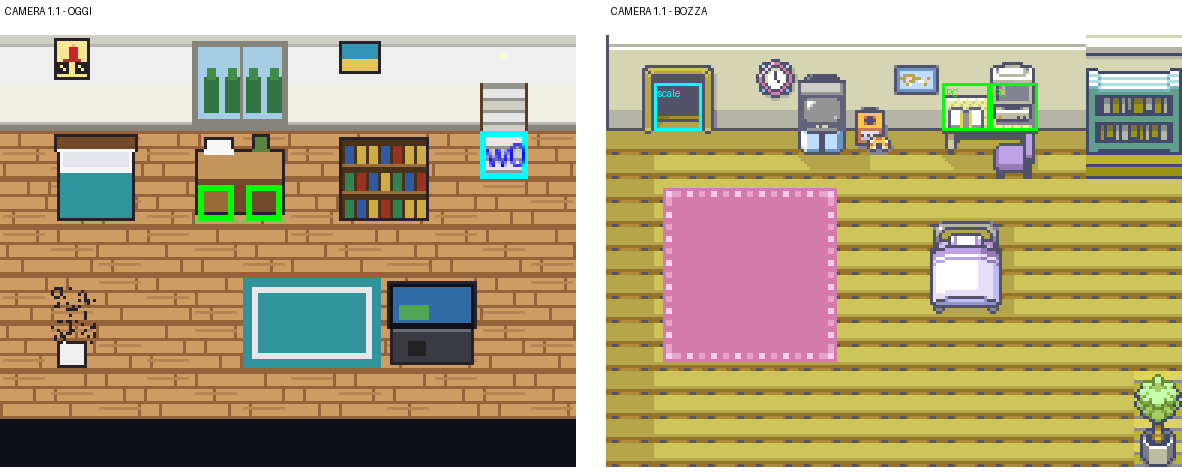
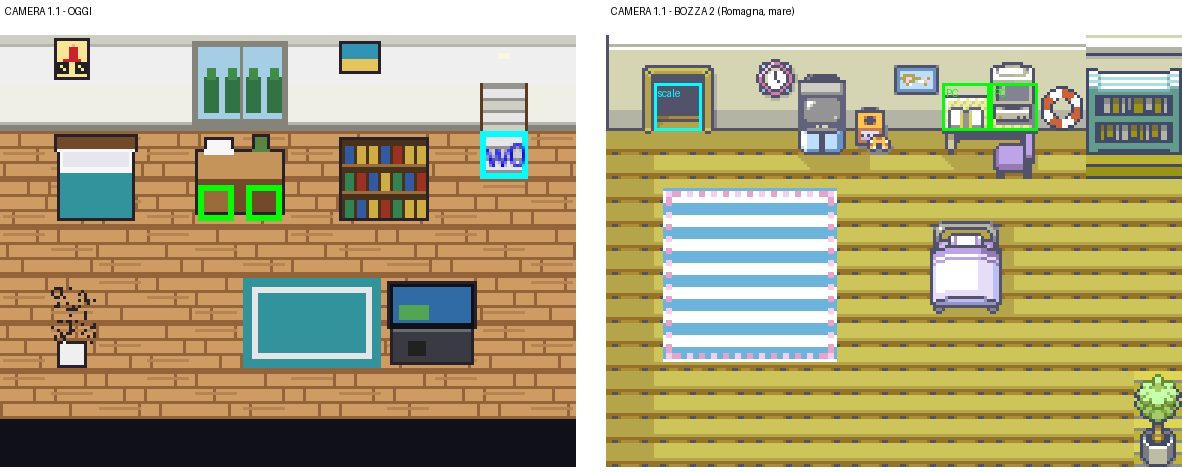
Bozza 2 della casa del protagonista: finestre sul mare, tovaglia romagnola a ruggine, salvagente, telo da mare (pezzi disegnati nello strato alto con le palette del primario)
Claude-Session: https://claude.ai/code/session_019NeVR98VfDxiGzodkXqoY7

Changed region(s): [[0.5482, 0.3856, 0.731, 0.7712], [0.8832, 0.178, 0.9137, 0.2669], [0.6091, 0.0, 0.6701, 0.0297]]

diff --git a/bozze/casa_protagonista.py b/bozze/casa_protagonista.py
@@ -1,6 +1,8 @@
 """Bozza Lotto 4: interno della casa del protagonista (1.0 pianterreno, 1.1 camera), stesse misure di oggi
 (14x10 e 12x9: i vecchi salvataggi fatti in casa restano dentro la mappa).
 
+Romagna e mare (pezzi disegnati a mano nello strato alto, palette del primario): finestre con la vista sul mare,
+tovaglia romagnola stampata a ruggine, salvagente al muro della camera, telo da mare a righe al posto del tappeto.
 Pezzi: la casa del protagonista di Smeraldo (layout di 1.2 e 1.3, che nessuna mappa usa piu'), primario degli
 interni 0x55ea40 e il suo secondario 0x55ecb0. Le scale passano a sinistra, come in Smeraldo, in tutti e due i piani.
 Uso: python3 bozze/casa_protagonista.py ROM_069 CARTELLA
@@ -50,8 +52,161 @@ def camera(d):
     return T
 
 
+# ------------------------------------------------------------------ pezzi disegnati a mano (Romagna, mare)
+# Si disegnano nello strato alto dei metatile, con le palette del primario degli interni (sempre caricate,
+# non occupano posti del secondario): palette 5 = cielo, mare, sabbia; palette 1 = ruggine, bianco, salmone.
+import numpy as np
+P_MARE, P_RUGGINE = 5, 1
+
+
+def _pal(d, ts, k):
+    pp = struct.unpack_from('<I', d, ts + 8)[0] - 0x8000000
+    v = struct.unpack_from('<16H', d, pp + 32 * k)
+    return np.array([[(c & 31) * 8, ((c >> 5) & 31) * 8, ((c >> 10) & 31) * 8] for c in v])
+
+
+def _tile_px(src_raw, idx):
+    raw = src_raw[(idx - 512) * 32:(idx - 512) * 32 + 32]
+    a = np.frombuffer(bytes(raw), np.uint8); px = np.empty(64, np.uint8); px[::2] = a & 15; px[1::2] = a >> 4
+    return px.reshape(8, 8)
+
+
+def strato_basso_rgb(U, mt):
+    """16x16 RGB dello strato basso del metatile mt del secondario SEC."""
+    f = U.fonte(SEC); refs = f.refs(mt); out = np.zeros((16, 16, 3), int)
+    for q in range(4):
+        r = refs[q]; t = _tile_px(f.raw, r & 1023)
+        if r & 0x400: t = t[:, ::-1]
+        if r & 0x800: t = t[::-1, :]
+        out[(q // 2) * 8:(q // 2) * 8 + 8, (q % 2) * 8:(q % 2) * 8 + 8] = _pal(U.d, SEC, r >> 12)[t]
+    return out
+
+
+def _raw(t8):
+    t = np.asarray(t8, np.uint8).reshape(64)
+    return bytes(int(t[i]) | (int(t[i + 1]) << 4) for i in range(0, 64, 2))
+
+
+def con_sopra(U, mt, alto16, pal):
+    """Il metatile mt (strato basso com'e') con lo strato alto nuovo: alto16 = 16x16 indici della palette pal
+    (0 = trasparente)."""
+    base = U.metatile(SEC, mt); refs = list(U.meta[base - 512][0]) if base >= 512 else list(U.prim.refs(base))
+    alto = np.asarray(alto16)
+    for q in range(4):
+        t = alto[(q // 2) * 8:(q // 2) * 8 + 8, (q % 2) * 8:(q % 2) * 8 + 8]
+        refs[4 + q] = (U._tile(_raw(t)) | (pal << 12)) if t.any() else 0
+    return U.metatile_nuovo(refs, U.fonte(SEC).attr(mt))
+
+
+def vetro(rgb):
+    r, g, b = rgb[..., 0], rgb[..., 1], rgb[..., 2]
+    return (b > r + 30) & (b > 120)
+
+
+def vista_mare(U, mt, riga0, vela=False):
+    """Finestra (strato basso mt) con il mare dietro il vetro. riga0: riga del vetro da cui parte il metatile
+    (0 per la parte alta della finestra, 16 per la bassa): l'orizzonte e' a meta' della finestra."""
+    rgb = strato_basso_rgb(U, mt); m = vetro(rgb); alto = np.zeros((16, 16), int)
+    ys = [y + riga0 for y in range(16) if m[y].any()]
+    for y in range(16):
+        for x in range(16):
+            if not m[y, x]: continue
+            Y = y + riga0
+            if Y < 12: c = 9                                     # cielo
+            elif Y < 15: c = 3                                   # foschia
+            elif Y == 15: c = 4                                  # orizzonte
+            else: c = 1 if ((x + Y) % 7 == 0 and Y > 17) else 10  # mare con le onde
+            alto[y, x] = c
+    if vela:                                                     # una vela bianca sull'orizzonte
+        for y, x0, x1 in [(12 - riga0, 7, 8), (13 - riga0, 6, 8), (14 - riga0, 5, 8)]:
+            if 0 <= y < 16:
+                for x in range(x0, x1 + 1):
+                    if m[y, x]: alto[y, x] = 1
+    return con_sopra(U, mt, alto, P_MARE)
+
+
+def tovaglia(U, mt):
+    """Il tavolo (strato alto, palette 9 del secondario) con la tovaglia romagnola stampata a ruggine."""
+    f = U.fonte(SEC); refs = list(f.refs(mt)); pal9 = _pal(U.d, SEC, 9)
+    base = U.metatile(SEC, mt); nuovi = list(U.meta[base - 512][0])
+    for q in range(4):
+        r = refs[4 + q]; t = _tile_px(f.raw, r & 1023)
+        rgb = pal9[t]; lum = rgb.sum(-1); out = np.zeros((8, 8), int)
+        X0, Y0 = (q % 2) * 8, (q // 2) * 8
+        for y in range(8):
+            for x in range(8):
+                if t[y, x] == 0: continue
+                X = X0 + (7 - x if r & 0x400 else x); Y = Y0 + y
+                if lum[y, x] > 560:                              # piano chiaro del tavolo -> tela con il motivo
+                    out[y, x] = 9 if ((X + Y) % 6 == 0 or (X - Y) % 6 == 0) and 2 < Y < 13 else 4
+                elif lum[y, x] > 380: out[y, x] = 10             # bordo -> ruggine chiaro
+                else: out[y, x] = 1                              # contorni e gambe
+        nuovi[4 + q] = (U._tile(_raw(out)) | (P_RUGGINE << 12) | (r & 0x0c00))
+    return U.metatile_nuovo(nuovi, f.attr(mt))
+
+
+def salvagente(U, mt):
+    """Salvagente bianco e rosso appeso al muro (strato alto, palette 1)."""
+    alto = np.zeros((16, 16), int); c = 7.5
+    for y in range(16):
+        for x in range(16):
+            r = ((x - c) ** 2 + (y - c - 0.5) ** 2) ** 0.5
+            if 3.2 <= r <= 7.2:
+                if r > 6.4 or r < 3.9: alto[y, x] = 1
+                else:
+                    ang = np.degrees(np.arctan2(y - c - 0.5, x - c)) % 360
+                    alto[y, x] = 10 if int(ang // 45) % 2 == 0 else 4
+    return con_sopra(U, mt, alto, P_RUGGINE)
+
+
+def telo(U, mt, riga0):
+    """Il tappeto rosa diventa un telo da mare a righe bianche e blu (solo sul rosa pieno)."""
+    rgb = strato_basso_rgb(U, mt); rosa = (rgb[..., 0] > 150) & (rgb[..., 1] < 150) & (rgb[..., 2] > 100)
+    alto = np.zeros((16, 16), int)
+    for y in range(16):
+        for x in range(16):
+            if rosa[y, x]: alto[y, x] = 10 if ((y + riga0) // 4) % 2 == 0 else 1
+    return con_sopra(U, mt, alto, P_MARE)
+
+
+class UnioneRomagna(tela.Unione):
+    """Unione che capisce anche le caselle ('N', nome, argomenti) dei pezzi disegnati a mano."""
+    def __init__(self, d):
+        super().__init__(d, PRIM); self.nuovi = {}
+
+    def metatile(self, tp, mt):
+        if isinstance(tp, tuple):
+            if tp not in self.nuovi: self.nuovi[tp] = tp[1](self, *tp[2:])
+            return self.nuovi[tp]
+        return super().metatile(tp, mt)
+
+
+def metti_nuovo(T, x, y, fn, *args):
+    vecchio = T.c[y][x][1]
+    T.c[y][x] = (('N', fn) + args, vecchio & 0xfc00)
+
+
+def romagna_pianterreno(T):
+    metti_nuovo(T, 12, 0, vista_mare, 0x21e, 0, False)
+    for x in (5, 6, 9, 10):                                     # finestre con vista sul mare
+        metti_nuovo(T, x, 0, vista_mare, 0x21e, 0, x == 6)
+        metti_nuovo(T, x, 1, vista_mare, 0x226, 16, x == 6)
+    for (x, y), mt in {(3, 6): 0x2b9, (4, 6): 0x2ba, (3, 7): 0x2c1, (4, 7): 0x2c2}.items():
+        metti_nuovo(T, x, y, tovaglia, mt)
+    return T
+
+
+def romagna_camera(T):
+    metti_nuovo(T, 9, 1, salvagente, 0x25c)
+    for y in range(3, 7):
+        for x in range(1, 5):
+            mt = T.c[y][x][1] & 1023
+            metti_nuovo(T, x, y, telo, mt, (y - 3) * 16)
+    return T
+
+
 def immagine(d, T, eventi, scala=3):
-    U = tela.Unione(d, PRIM); val = T.valori(U)
+    U = UnioneRomagna(d); val = T.valori(U)
     im = tela.anteprima(d, U, val, T.w, T.h, 1).convert('RGB')
     im = im.resize((im.width * scala, im.height * scala), Image.NEAREST); dr = ImageDraw.Draw(im)
     for nome, (x, y), col in eventi:
@@ -69,5 +224,5 @@ if __name__ == '__main__':
     R = romlib.Rom(d)
     for k, f in [((1, 0), 'casa_pt_prima.png'), ((1, 1), 'casa_camera_prima.png')]:
         R.render(R.map(*k), events=True, scale=3).save(out / f)
-    for T, ev, f in [(pianterreno(d), EVENTI_PT, 'casa_pt_dopo.png'), (camera(d), EVENTI_CAM, 'casa_camera_dopo.png')]:
+    for T, ev, f in [(romagna_pianterreno(pianterreno(d)), EVENTI_PT, 'casa_pt_dopo.png'), (romagna_camera(camera(d)), EVENTI_CAM, 'casa_camera_dopo.png')]:
         U, val, im = immagine(d, T, ev); im.save(out / f); print(f, U.stato())
